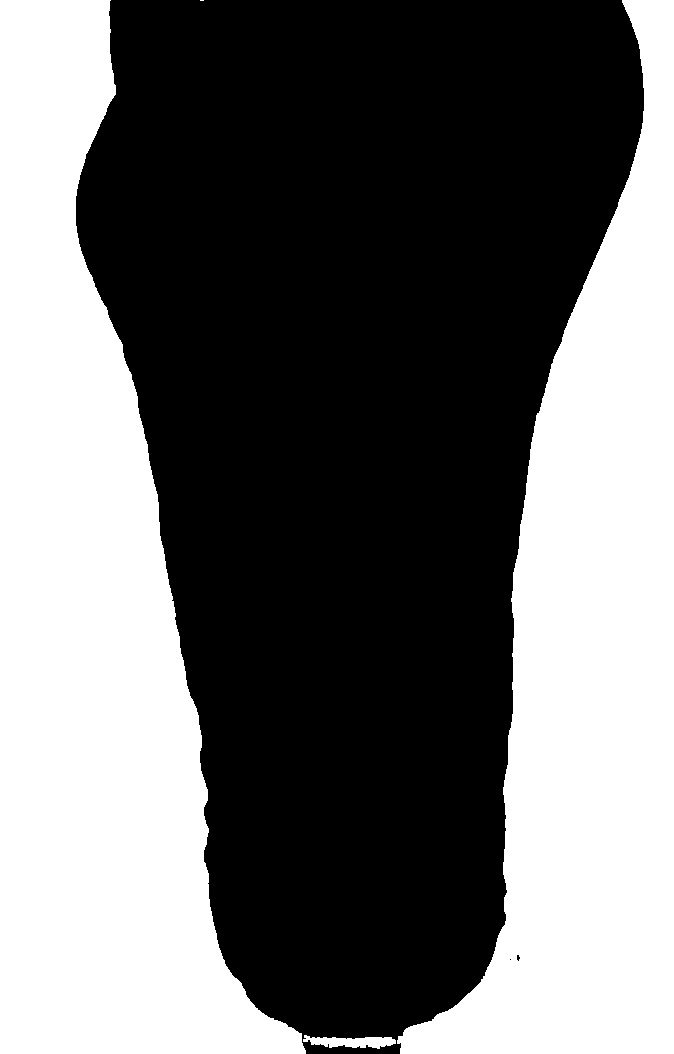
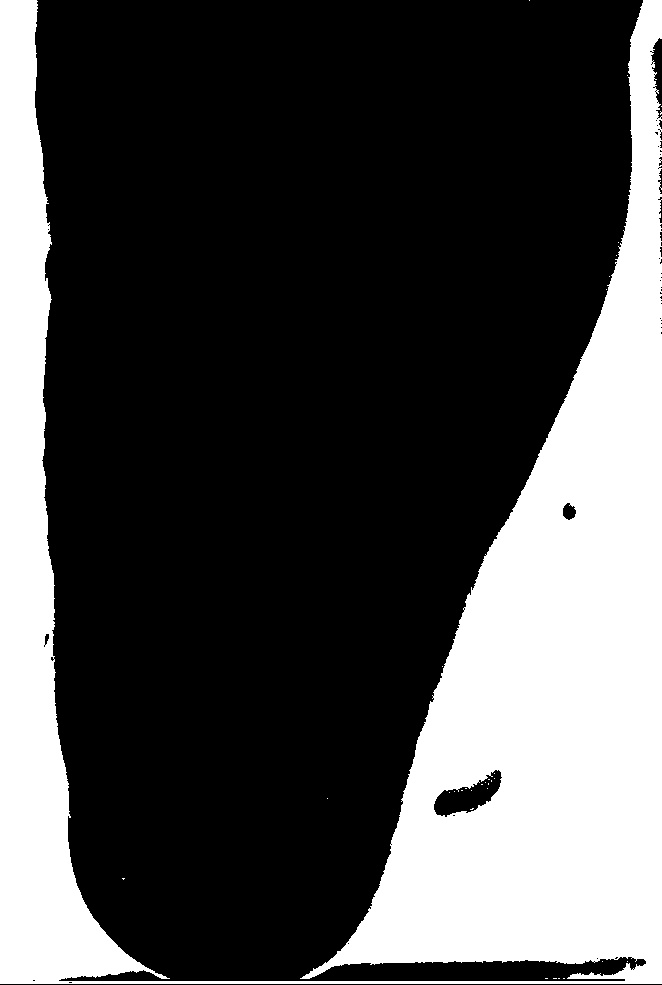
Fix something

Changed region(s): [[0.0302, 0.0, 0.9668, 1.0], [0.9063, 0.0, 1.0, 0.3046], [0.8459, 0.5178, 0.8761, 0.5482]]

diff --git a/src/BgRemoval.java b/src/BgRemoval.java
@@ -53,14 +53,14 @@ public class BgRemoval {
 
         double threshValue = this.getHistAverage(bright1, hsvPlanes.get(0));
         // a new binary threshold
-        Imgproc.threshold(hsvPlanes.get(0), thresholdImg, threshValue, 255, Imgproc.THRESH_BINARY_INV);
+        Imgproc.threshold(hsvPlanes.get(2), thresholdImg, threshValue, 255, Imgproc.THRESH_BINARY);
         Imgproc.blur(thresholdImg, thresholdImg, new Size(5, 5));
 
         // dilate to fill gaps, erode to smooth edges
         Imgproc.dilate(thresholdImg, thresholdImg, new Mat(), new Point(-1, -1), 1);
         Imgproc.erode(thresholdImg, thresholdImg, new Mat(), new Point(-1, -1), 3);
 
-        Imgproc.threshold(hsvPlanes.get(0), thresholdImg, threshValue, 255, Imgproc.THRESH_BINARY_INV);
+//        Imgproc.threshold(hsvPlanes.get(2), thresholdImg, threshValue, 255, Imgproc.THRESH_BINARY);
 
         // create the new image
         Mat foreground = new Mat(source.size(), CvType.CV_8UC1, new Scalar(0, 0, 0));

diff --git a/src/cutting.java b/src/cutting.java
@@ -20,7 +20,7 @@ public class cutting {
             color_switch = 0;
             for (int x = 0; x < source.width(); x++){
                 double[] color = source.get(y, x);
-                if(color[0] != current_color && y < source.height()/2){
+                if(color[0] != current_color && y < source.height()/3){
                     if(current_color != -1){
                         color_switch++;
                     }

diff --git a/src/main.java b/src/main.java
@@ -15,7 +15,7 @@ class Test {
 
         //Loading the OpenCV core library
         System.loadLibrary(Core.NATIVE_LIBRARY_NAME);
-        String input = "./no1.jpg";
+        String input = "./no.jpg";
 
         // To Read the image
         Mat source = Imgcodecs.imread(input);
